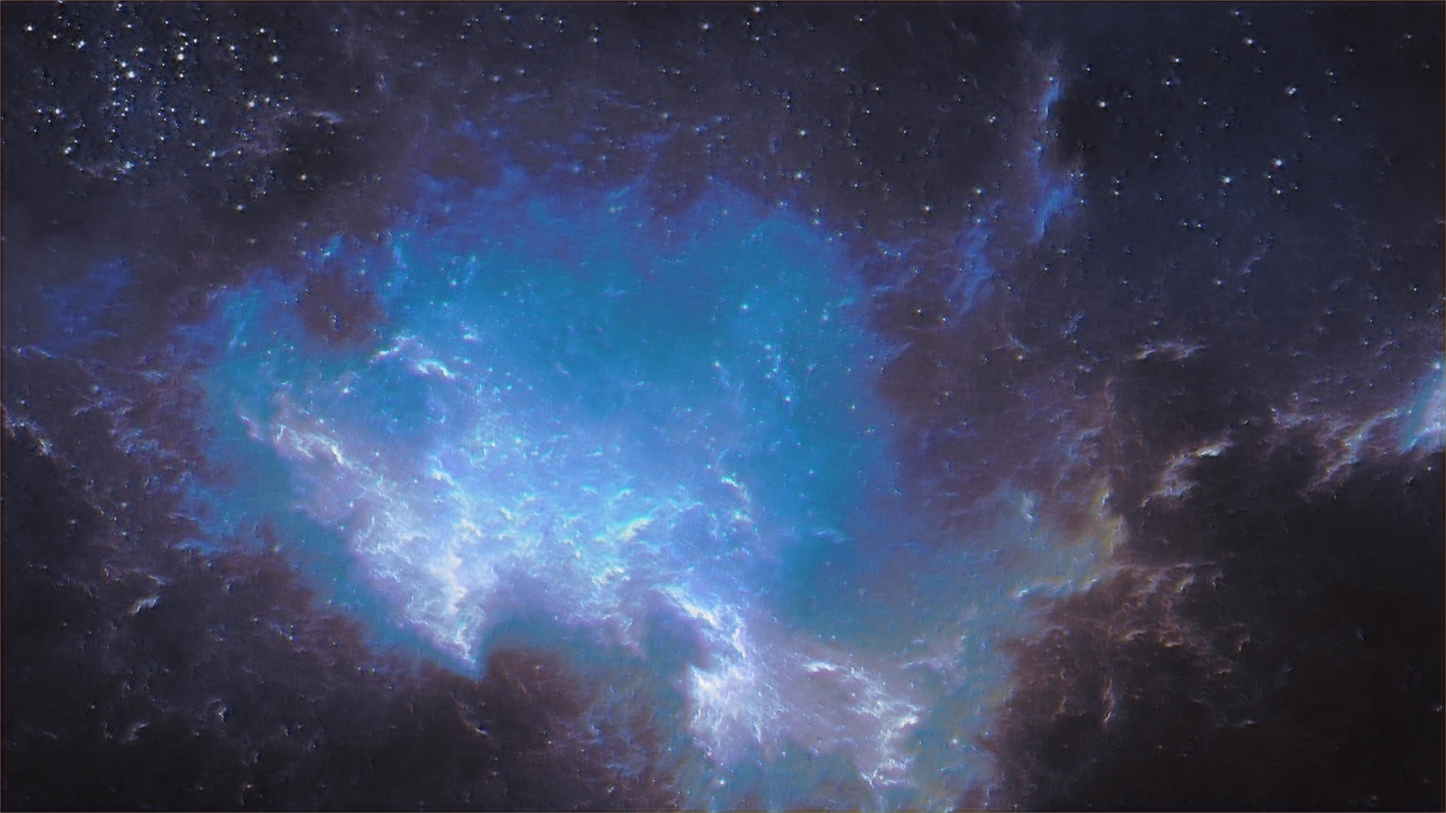
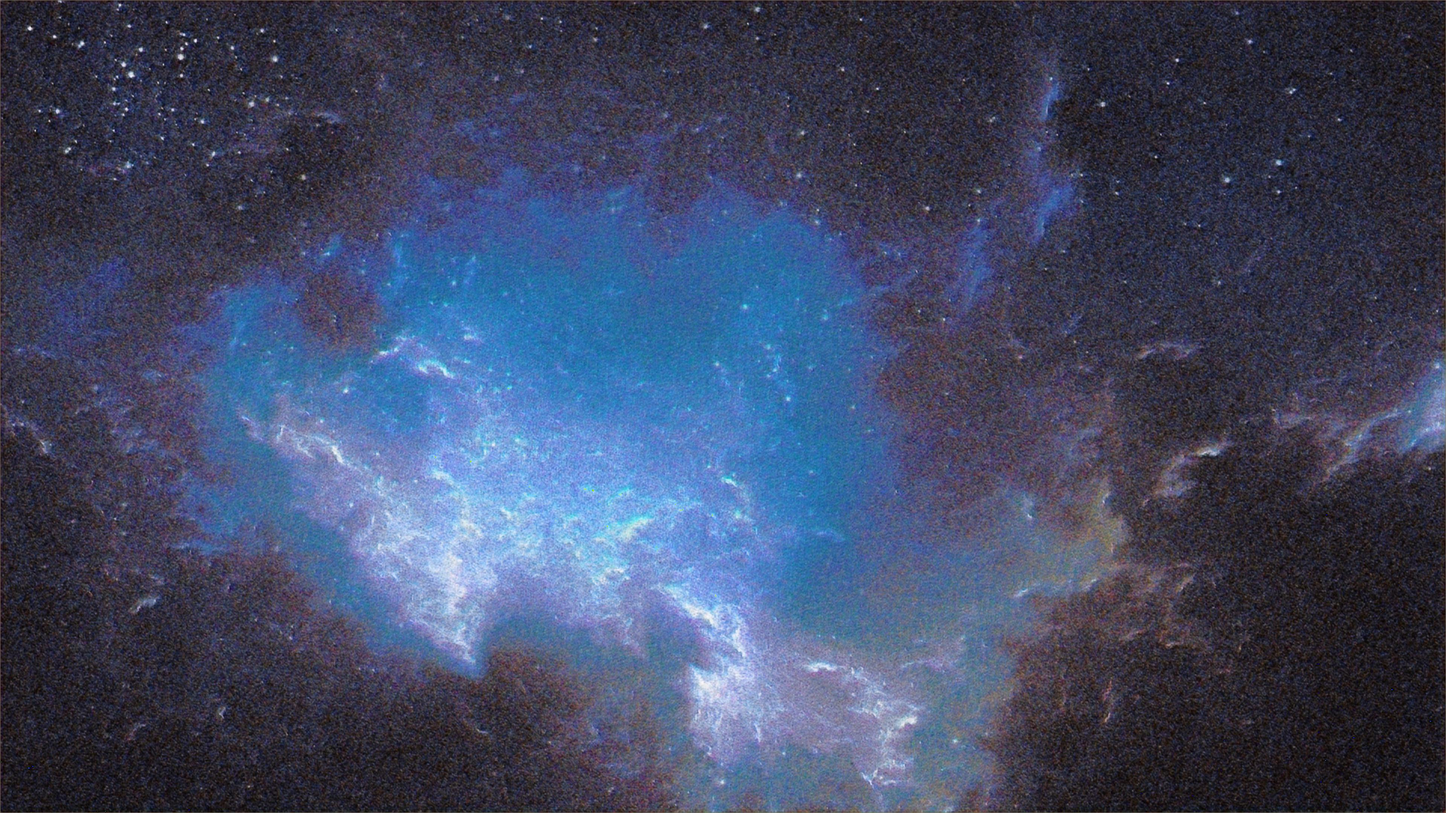
made resnet variants of encoder and decoder, made conv only variant of classifier, all still need testing

diff --git a/Models.py b/Models.py
@@ -13,7 +13,240 @@ import numpy as np
 import PIL
 from math import ceil
 
-DEBUG = True
+DEBUG = False
+
+class Res_encoder(nn.Module):
+    def __init__(self, encoding_channels, dim = 256):
+        super().__init__()
+
+        self.encoding_channels = encoding_channels
+        self.dim = dim # keeps track of tensor WxH as it is passed down the network
+
+        if DEBUG == True:
+            print(self.dim)
+
+        self.conv1 = nn.Conv2d(3, 8, kernel_size = 3, padding = 1)
+
+        self.conv1a = nn.Conv2d(8, 8, kernel_size = 3, padding = 1)
+        self.conv1b = nn.Conv2d(8, 8, kernel_size = 3, padding = 1)
+        self.conv1c = nn.Conv2d(8, 8, kernel_size = 3, padding = 1)
+
+        self.bn1  = nn.BatchNorm2d(8)
+        self.pool1 = nn.MaxPool2d(2)
+        self.dim = self.dim // 2
+        if DEBUG == True:
+            print(self.dim)
+        self.conv2 =  nn.Conv2d(8, 16, kernel_size = 3, padding = 1)
+
+        self.conv2a =  nn.Conv2d(16, 16, kernel_size = 3, padding = 1)
+        self.conv2b =  nn.Conv2d(16, 16, kernel_size = 3, padding = 1)
+        self.conv2c =  nn.Conv2d(16, 16, kernel_size = 3, padding = 1)
+
+        self.bn2  = nn.BatchNorm2d(16)
+        self.pool2 = nn.MaxPool2d(2)
+        self.dim = self.dim // 2
+        if DEBUG == True:
+            print(self.dim)
+        self.conv3 =  nn.Conv2d(16, 32, kernel_size = 3, padding = 1)
+
+        self.conv3a =  nn.Conv2d(32, 32, kernel_size = 3, padding = 1)
+        self.conv3b =  nn.Conv2d(32, 32, kernel_size = 3, padding = 1)
+        self.conv3c =  nn.Conv2d(32, 32, kernel_size = 3, padding = 1)
+        
+        self.bn3  = nn.BatchNorm2d(32)
+        self.pool3 = nn.MaxPool2d(2)
+        self.dim = self.dim // 2
+        if DEBUG == True:
+            print(self.dim)
+        self.conv4 =  nn.Conv2d(32, 64, kernel_size = 3, padding = 1)
+
+        self.conv4a =  nn.Conv2d(64, 64, kernel_size = 3, padding = 1)
+        self.conv4b =  nn.Conv2d(64, 64, kernel_size = 3, padding = 1)
+
+        self.bn4  = nn.BatchNorm2d(64)
+        self.conv5 = nn.Conv2d(64, self.encoding_channels, kernel_size = 5, padding = 2)      
+
+
+    def forward(self, x):
+
+        x = self.conv1(x)
+        res = x
+        x = F.leaky_relu(x)
+        x = F.leaky_relu(self.conv1a(x))
+        x = F.leaky_relu(self.conv1b(x))
+        x = F.leaky_relu(self.conv1c(x) + res)
+        x = self.bn1(x)
+        x = self.pool1(x)
+
+        x = self.conv2(x)
+        res = x
+        x = F.leaky_relu(x)
+        x = F.leaky_relu(self.conv2a(x))
+        x = F.leaky_relu(self.conv2b(x))
+        x = F.leaky_relu(self.conv2c(x) + res)
+        x = self.bn2(x)
+        x = self.pool2(x)
+
+        x = self.conv3(x)
+        res = x
+        x = F.leaky_relu(x)
+        x = F.leaky_relu(self.conv3a(x))
+        x = F.leaky_relu(self.conv3b(x))
+        x = F.leaky_relu(self.conv3c(x) + res)
+        x = self.bn3(x)
+        x = self.pool3(x)
+
+        x = self.conv4(x)
+        res = x
+        x = F.leaky_relu(x)
+        x = F.leaky_relu(self.conv4a(x))
+        x = F.leaky_relu(self.conv4b(x) + res)
+        x = self.bn4(x)
+        x = F.leaky_relu(self.conv5(x))
+
+        return x
+
+class Res_decoder(nn.Module):
+    def __init__(self, encoding_channels, dim):
+        self.encoding_channels = encoding_channels
+        self.dim = dim
+        if DEBUG == True:
+            print(self)
+            print(self.dim)
+
+        self.conv1 = torch.nn.ConvTranspose2d(self.encoding_channels, 64, kernel_size = 3, padding= 1)
+
+        self.conv1a = torch.nn.ConvTranspose2d(64, 64, kernel_size = 3, padding= 1)
+        self.conv1b = torch.nn.ConvTranspose2d(64, 64, kernel_size = 3, padding= 1)
+        self.conv1c = torch.nn.ConvTranspose2d(64, 64, kernel_size = 3, padding= 1)
+
+        self.bn1 = torch.nn.BatchNorm2d(64)
+        self.conv2 = torch.nn.ConvTranspose2d(64, 32, stride = 2, kernel_size = 3, padding= 1)
+
+        self.conv2a = torch.nn.ConvTranspose2d(32, 32, kernel_size = 3, padding = 1)
+        self.conv2b = torch.nn.ConvTranspose2d(32, 32, kernel_size = 3, padding = 1)
+        self.conv2c = torch.nn.ConvTranspose2d(32, 32, kernel_size = 3, padding = 1)
+
+        self.bn2 = torch.nn.BatchNorm2d(32)
+        self.conv3 = torch.nn.ConvTranspose2d(32, 16, stride = 2, kernel_size = 3, padding= 1)
+
+        self.conv3a = torch.nn.ConvTranspose2d(16, 16, kernel_size = 3, padding= 1)
+        self.conv3b = torch.nn.ConvTranspose2d(16, 16, kernel_size = 3, padding= 1)
+        self.conv3c = torch.nn.ConvTranspose2d(16, 16, kernel_size = 3, padding= 1)
+
+        self.bn3 = torch.nn.BatchNorm2d(16)
+        self.conv4 = torch.nn.ConvTranspose2d(16, 8, stride = 2, kernel_size = 3, padding= 1)
+
+        self.conv4a = torch.nn.ConvTranspose2d(8, 8, kernel_size = 3, padding= 1)
+        self.conv4b = torch.nn.ConvTranspose2d(8, 8, kernel_size = 3, padding= 1)
+        self.conv4c = torch.nn.ConvTranspose2d(8, 8, kernel_size = 3, padding= 1)
+
+        self.conv5 = torch.nn.ConvTranspose2d(8, 3, kernel_size = 3, padding = 1)
+    
+    def forward(self, x):
+
+        x = self.conv1(x))
+        res = x
+        x = F.leaky_relu(x)
+        x = F.leaky_relu(self.conv1a(x))
+        x = F.leaky_relu(self.conv1b(x))
+        x = F.leaky_relu(self.conv1c(x) + res)
+        x = self.bn1(x)
+
+        x = self.conv2(x)
+        res = x
+        x = F.leaky_relu(x)
+        x = F.leaky_relu(self.conv2a(x))
+        x = F.leaky_relu(self.conv2b(x))
+        x = F.leaky_relu(self.conv2c(x) + res)
+        x = self.bn2(x)
+
+        x = self.conv3(x)
+        res = x
+        x = F.leaky_relu(x)
+        x = F.leaky_relu(self.conv3a(x))
+        x = F.leaky_relu(self.conv3b(x))
+        x = F.leaky_relu(self.conv3c(x) + res)
+        x = self.bn3(x)
+
+        x = self.conv4(x)
+        res = x
+        x = F.sigmoid(x)
+        x = F.sigmoid(self.conv4a(x))
+        x = F.sigmoid(self.conv4b(x))
+        x = F.sigmoid(self.conv4c(x) + res)
+
+        x = self.conv5(x)
+
+        return x
+
+class Conv_classifier:
+    def __init__(self, encoding_channels, dim):
+        self.encoding_channels = encoding_channels
+        self.dim = dim
+
+        self.conv1 = torch.nn.Conv2d(self.encoding_channels, 16, kernel_size = 5, padding= 2)
+        self.bn1 = torch.nn.BatchNorm2d(16)
+        self.pool1 = torch.nn.MaxPool2d(2)
+        self.dim = self.dim // 2
+        if DEBUG == True:
+            print(self.dim)
+
+        self.conv2 = torch.nn.Conv2d(16, 32, kernel_size = 5, padding= 2)
+        self.bn2 = torch.nn.BatchNorm2d(32)
+        self.pool2 = torch.nn.MaxPool2d(2)
+        self.dim = self.dim // 2
+        if DEBUG == True:
+            print(self.dim)
+        
+        self.conv3 = torch.nn.Conv2d(32, 64, kernel_size = 5, padding= 2)
+        self.bn3 = torch.nn.BatchNorm2d(64)
+        self.pool3 = torch.nn.MaxPool2d(2)
+        self.dim = self.dim // 2
+        if DEBUG == True:
+            print(self.dim)
+
+        self.conv4 = torch.nn.Conv2d(64, 128, kernel_size = 5, padding= 2)
+        self.bn4 = torch.nn.BatchNorm2d(128)
+        self.pool4 = torch.nn.MaxPool2d(2)
+        self.dim = self.dim // 2
+        if DEBUG == True:
+            print(self.dim)
+
+        self.conv5 = torch.nn.Conv2d(128, 256, kernel_size = 5, padding= 2)
+        self.bn5 = torch.nn.BatchNorm2d(256)
+        self.pool5 = torch.nn.MaxPool2d(2)
+        self.dim = self.dim // 2
+        if DEBUG == True:
+            print(self.dim)
+
+        self.conv6 = torch.nn.Conv2d(256, 47, kernel_size = 1, padding = 0)
+
+    def forward(self, x):
+
+        x = F.leaky_relu(self.conv1(x))
+        x = self.bn1(x)
+        x = self.pool1(x)
+        
+        x = F.leaky_relu(self.conv2(x))
+        x = self.bn2(x)
+        x = self.pool2(x)
+
+        x = F.leaky_relu(self.conv3(x))
+        x = self.bn3(x)
+        x = self.pool3(x)
+
+        x = F.leaky_relu(self.conv4(x))
+        x = self.bn4(x)
+        x = self.pool4(x)
+
+        x = F.leaky_relu(self.conv5(x))
+        x = self.bn5(x)
+        x = self.pool5(x)
+
+        x = F.sigmoid(self.conv6(x))
+
+        return torch.squeeze(x)
 
 class Encoder(nn.Module):
 
@@ -52,7 +285,7 @@ class Encoder(nn.Module):
         x = F.sigmoid(self.conv3(x))
 
         return x
-
+        
 class Decoder(nn.Module):
     def __init__(self, encoding_channels, dim):
 
@@ -151,7 +384,6 @@ class Classifier(nn.Module):
 
         return x
 
-    
 class Model():
     def __init__(self, train_size, encoding_channels = 10):
 
@@ -160,9 +392,41 @@ class Model():
         self.classif = Classifier(encoding_channels = encoding_channels, dim = self.encoder.dim)
         self.encoding_channels = encoding_channels
 
-    def dream(self, img1):
+    def simple_dream(self, img1):
 
         enc = self.encoder.forward(img1)
         img_out =  self.decoder(enc)
 
         return img_out
+
+    def noise_injection(self, img):
+
+        enc = self.encoder(img)
+        noise = (torch.rand(enc.size()) - .5) / 10
+        noise = noise.to(enc.device)
+        out_img = self.decoder(enc + noise)
+
+        return out_img
+
+    def cross_dream(self, img1, img2): # images must be the same size
+
+        enc1 = self.encoder(img1)
+        enc2 = self.encoder(img2)
+        mg_out = self.decoder(enc1 * enc2)
+
+        return img_out
+
+    def fibonacci_dream(self, img1):
+
+        temp1 = img1
+        temp2 = self.simple_dream(img1)
+        temp3 = None
+
+        for i in range(3):
+
+            temp3 = self.cross_dream(temp1, temp2)
+            temp1 = temp2
+            temp2 = temp3
+            temp3 = None
+
+        return temp2

diff --git a/main.py b/main.py
@@ -205,6 +205,7 @@ def dream_test():
     model.encoder.to(device)
     model.encoder.eval()
     print("done!")
+    print("dream functions: ")
 
     test_folder = os.path.join(os.path.dirname(os.path.abspath(__file__)), 'test_images/')
     output_folder = os.path.join(os.path.dirname(os.path.abspath(__file__)), 'test_outputs/')
@@ -214,15 +215,13 @@ def dream_test():
     print("counting sheep...")
 
     for image in test_images:
-
         print("     ", image)
         img = PIL.Image.open(os.path.join(test_folder, image))
         model_input = image_to_input(img)
-        model_output = model.dream(model_input)
+        model_output = model.noise_injection(model_input)
         dream_image = output_to_image(model_output)
         
         dream_image.save(os.path.join(output_folder, "dream_" + image))
-        
 
 if __name__ == '__main__':
 
